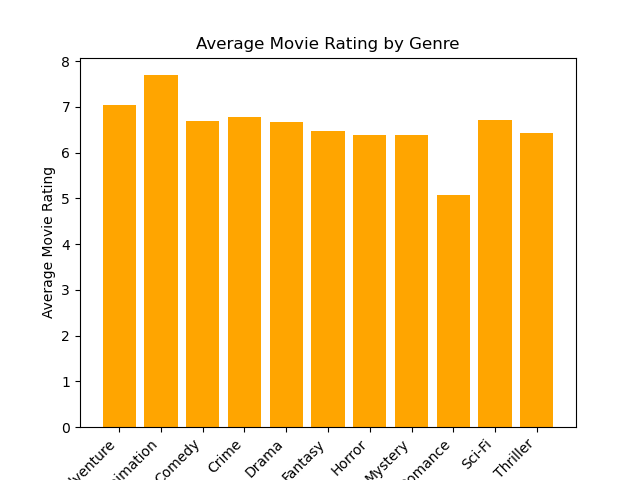
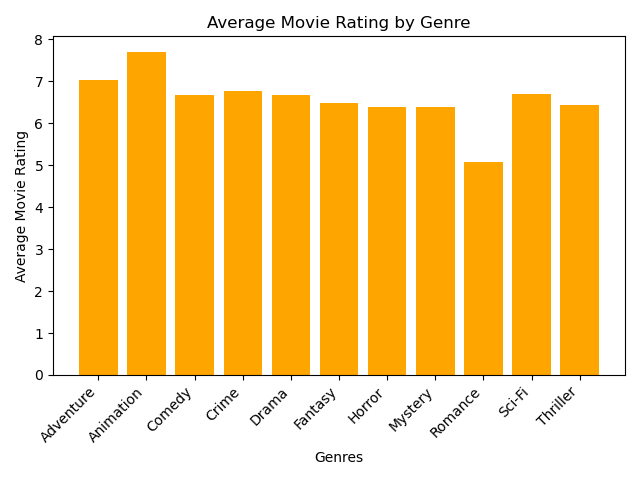
Updated visualizations code + graph(png)

diff --git a/visualizations.py b/visualizations.py
@@ -12,6 +12,7 @@ plt.xticks(rotation=45, ha='right')
 plt.xlabel('Genres')
 plt.ylabel('Average Movie Rating')
 plt.title('Average Movie Rating by Genre')
+plt.tight_layout()
 plt.savefig('Average Movie Rating by Genre')
 plt.show()
 
@@ -24,6 +25,7 @@ plt.xticks(rotation=45, ha='right')
 plt.xlabel('Genres')
 plt.ylabel('Average Box Office Revenue (Millions $)')
 plt.title('Average Box Office Revenue by Genre')
+plt.tight_layout()
 plt.savefig('Average Box Office Revenue by Genre')
 plt.show()
 
@@ -36,6 +38,7 @@ plt.xticks(rotation=45, ha='right')
 plt.xlabel('Genres')
 plt.ylabel('Average Award Nomination Ratio')
 plt.title('Average Award Nomination Ratio by Genre')
+plt.tight_layout()
 plt.savefig('Average Award Nomination Ratio by Genre')
 plt.show()
 
